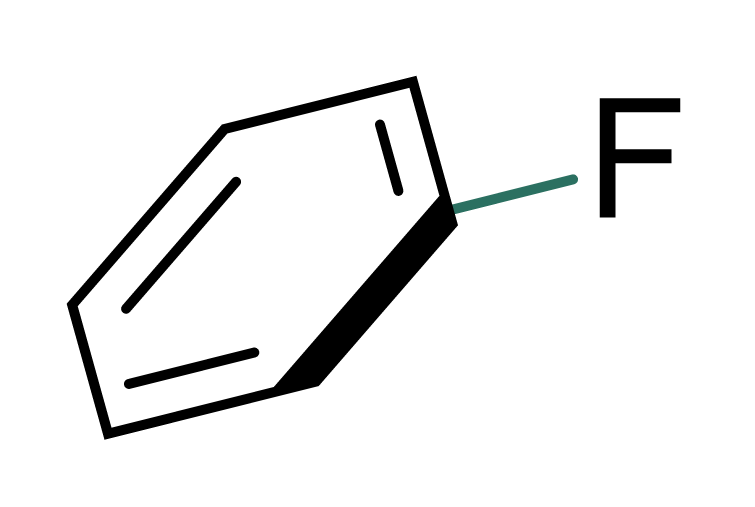
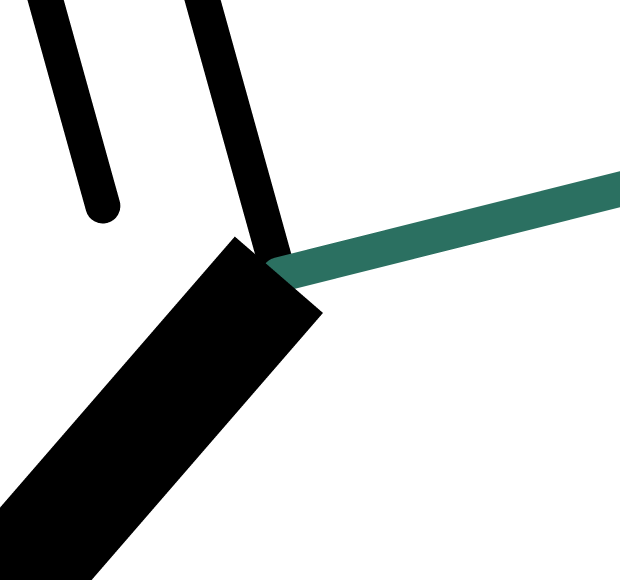
Retain styled metal contacts and close colored ring junction seams

Changed region(s): [[0.0, 0.0, 1.0, 1.0]]

diff --git a/tests/assistant_ligand_review.rs b/tests/assistant_ligand_review.rs
@@ -199,8 +199,9 @@ fn review_tilts_only_one_ligand_and_preserves_3d_lengths_contacts_and_chemistry(
     Ok(())
 }
 
-#[test]
-fn hiding_charge_labels_keeps_formula_and_native_data_and_can_be_reversed() -> anyhow::Result<()> {
+#[tokio::test]
+async fn hiding_charge_labels_keeps_formula_and_native_data_and_can_be_reversed()
+-> anyhow::Result<()> {
     let before = draft()?;
     let targets: Vec<_> = review::targets(&before)
         .into_iter()
@@ -228,10 +229,48 @@ fn hiding_charge_labels_keeps_formula_and_native_data_and_can_be_reversed() -> a
             .map_err(anyhow::Error::msg)?
             .is_empty()
     );
-    let error = reshiki::exchange::drawing::write(&hidden, Default::default())
-        .err()
-        .context("Expected explicit interchange limitation")?;
-    assert!(error.to_string().contains("hidden charge labels"));
+    let xml = reshiki::exchange::drawing::write(&hidden, Default::default())?;
+    let cdx = reshiki::exchange::to_cdx(&xml).map_err(anyhow::Error::msg)?;
+    let xml = reshiki::exchange::from_cdx(&cdx).map_err(anyhow::Error::msg)?;
+    let response = reshiki::engine::LocalEngine::default()
+        .request(reshiki::engine::Request::import("cdxml", &xml))
+        .await
+        .map_err(anyhow::Error::msg)?;
+    assert!(response.analysis.is_none());
+    assert!(
+        response
+            .warnings
+            .iter()
+            .any(|w| w.contains("Coordination assignments need review"))
+    );
+    let imported = response.document.context("Imported ligand drawing")?;
+    assert_eq!(
+        imported
+            .bonds
+            .iter()
+            .filter(|b| b.order == 1 && b.display == "hash")
+            .count(),
+        2
+    );
+    assert_eq!(
+        imported
+            .bonds
+            .iter()
+            .filter(|b| b.order == 1 && b.display == "wedge")
+            .count(),
+        2
+    );
+    assert_eq!(imported.atoms.iter().map(|a| a.charge).sum::<i32>(), -2);
+    assert_eq!(
+        imported
+            .atoms
+            .iter()
+            .filter(|a| a.charge == -1 && a.display.hide_charge)
+            .count(),
+        2
+    );
+    assert_eq!(imported.bonds.iter().filter(|b| b.order == 4).count(), 10);
+    assert!(!reshiki::scene::svg(&imported).contains('−'));
     let edits: Vec<_> = targets
         .iter()
         .map(|t| edit(&t.name, [0.; 3], true))

diff --git a/src/engine/native_import.rs b/src/engine/native_import.rs
@@ -220,6 +220,13 @@ fn prepare(request: Request) -> Result<Preparation, Error> {
                 }
                 Err(error) => return Err(error.into()),
             };
+            if styled_coordination_changed(&prepared) {
+                let scene = cdxml::assemble_cdxml(&cdxml::prepare_drawing(&xml)?)?;
+                return Ok(Preparation::Drawing(
+                    Box::new(scene.into_unchecked_drawing()?),
+                    "Drawing imported; styled metal contacts retained as drawn. Coordination assignments need review; molecular properties are unavailable".into(),
+                ));
+            }
             let mut scene = cdxml::assemble_cdxml(&prepared)?;
             if scene.conformer_3d.is_none() {
                 layout(&mut scene.molecule, &[])?;
@@ -247,6 +254,30 @@ fn prepare(request: Request) -> Result<Preparation, Error> {
     };
     prepared.document.validate().map_err(Error::Document)?;
     Ok(Preparation::Complete(Box::new(prepared)))
+}
+
+// Sanitization can normalize an overvalent metal contact to a dative bond.
+// A wedge/hash on the source single bond has no equivalent dative appearance.
+// Preserve that drawing explicitly instead of either dropping its style or
+// publishing properties for a different graph. Ordinary molecular parsing
+// and supported plain/dashed coordinate bonds retain their strict behavior.
+fn styled_coordination_changed(prepared: &cdxml::PreparedCdxml) -> bool {
+    let ids = &prepared.molecule.ids;
+    let changed: std::collections::HashSet<_> = prepared
+        .molecule
+        .state
+        .graph
+        .bonds
+        .iter()
+        .filter(|b| b.order == 5)
+        .filter_map(|b| ids.get(b.a).zip(ids.get(b.b)))
+        .map(|(&a, &b)| (a.min(b), a.max(b)))
+        .collect();
+    prepared.bonds.iter().any(|b| {
+        b.order == 1
+            && !matches!(b.display.as_str(), "plain" | "dashed")
+            && changed.contains(&(b.a.min(b.b), b.a.max(b.b)))
+    })
 }
 
 fn finish_reaction(drawing: reaction::Drawing) -> Result<Prepared, Error> {

diff --git a/tests/aromatic_bond_styles.rs b/tests/aromatic_bond_styles.rs
@@ -186,7 +186,7 @@ fn cp_star_dimer_wedges_keep_both_ellipses_ligands_and_contacts() -> anyhow::Res
 fn projected_styles_are_not_silently_exported_as_stereochemical_wedges() -> anyhow::Result<()> {
     for preset in APPEARANCES
         .into_iter()
-        .filter(|p| !matches!(p, BondPreset::Single | BondPreset::Bold))
+        .filter(|p| !matches!(p, BondPreset::Single | BondPreset::Bold | BondPreset::Wedge))
     {
         let mut doc = ring(6, 65.);
         preset.apply(doc.bonds.first_mut().context("Missing edge")?);
@@ -202,6 +202,27 @@ fn projected_styles_are_not_silently_exported_as_stereochemical_wedges() -> anyh
         let imported = reshiki::chemistry::cdxml::import_cdxml(&xml)?.document;
         assert_eq!(imported.bonds.iter().filter(|b| b.order == 4).count(), 6);
         assert!(imported.atoms.iter().all(|a| a.stereo.is_none()));
+    }
+    Ok(())
+}
+
+#[test]
+fn aromatic_front_edges_remain_aromatic_without_creating_stereocenters() -> anyhow::Result<()> {
+    for preset in [BondPreset::Bold, BondPreset::Wedge] {
+        let mut doc = ring(6, 65.);
+        preset.apply(doc.bonds.first_mut().context("Missing edge")?);
+        let xml = reshiki::exchange::drawing::write(&doc, Default::default())?;
+        let cdx = reshiki::exchange::to_cdx(&xml).map_err(anyhow::Error::msg)?;
+        let xml = reshiki::exchange::from_cdx(&cdx).map_err(anyhow::Error::msg)?;
+        let imported = reshiki::chemistry::cdxml::import_cdxml(&xml)?.document;
+        assert_eq!(imported.bonds.iter().filter(|b| b.order == 4).count(), 6);
+        assert!(imported.atoms.iter().all(|a| a.stereo.is_none()));
+        assert!(
+            imported
+                .bonds
+                .iter()
+                .any(|b| b.projection && BondPreset::of(b) == Some(preset))
+        );
     }
     Ok(())
 }

diff --git a/tests/ring_arc_rendering.rs b/tests/ring_arc_rendering.rs
@@ -22,6 +22,23 @@ fn curves(doc: &Document) -> usize {
         .count()
 }
 
+fn joined_edges(doc: &Document) -> usize {
+    scene::primitives(doc)
+        .iter()
+        .map(|p| match p {
+            Primitive::Path {
+                commands,
+                filled: true,
+                ..
+            } => commands
+                .iter()
+                .filter(|c| matches!(c, PathCommand::Close))
+                .count(),
+            _ => 0,
+        })
+        .sum()
+}
+
 #[test]
 fn partial_aromatic_curve_does_not_add_dashes_on_remaining_ring_edges() -> anyhow::Result<()> {
     for size in [5, 6, 7, 8] {
@@ -125,7 +142,7 @@ fn partial_curve_preserves_unselected_double_bonds_and_figure_exports() -> anyho
     reshiki::ring_arcs::toggle(&mut doc, &ids[..3]).map_err(anyhow::Error::msg)?;
     assert_eq!(curves(&doc), 1);
     assert_eq!(
-        lines(&doc),
+        lines(&doc) + joined_edges(&doc),
         8,
         "Six outer edges and two unselected double-bond strokes"
     );
@@ -143,6 +160,6 @@ fn partial_curve_preserves_unselected_double_bonds_and_figure_exports() -> anyho
     );
     reshiki::ring_arcs::toggle(&mut doc, &ids[..3]).map_err(anyhow::Error::msg)?;
     assert_eq!(doc.bonds, bonds);
-    assert_eq!(lines(&doc), 9);
+    assert_eq!(lines(&doc) + joined_edges(&doc), 9);
     Ok(())
 }

diff --git a/src/bond_joins.rs b/src/bond_joins.rs
@@ -121,9 +121,21 @@ pub fn polygon(doc: &Document, b: &Bond, start: Point, end: Point) -> Vec<Point>
     let [bl, br] = cap(doc, b, b.b, end, start);
     vec![al, br, bl, ar]
 }
+/// A differently colored substituent is painted underneath the ring. Adjacent
+/// separately antialiased colors otherwise leave a translucent seam, even when
+/// their boundaries agree. The ring covers the branch root with its own ink.
+pub fn behind_backbone(doc: &Document, b: &Bond) -> bool {
+    [b.a, b.b].iter().any(|id| {
+        branches::backbone(doc, *id)
+            .is_some_and(|ring| !ring.contains(b) && ring.has_different_color(b.color))
+    })
+}
 /// Keep a ring's outer miter intact and stop substituents at that outline.
 pub fn outlines(doc: &Document, b: &Bond, start: Point, end: Point) -> Vec<Vec<Point>> {
     let mut parts = vec![polygon(doc, b, start, end)];
+    if behind_backbone(doc, b) {
+        return parts;
+    }
     for (id, point) in [(b.a, start), (b.b, end)] {
         if doc
             .atom(id)

diff --git a/src/scene.rs b/src/scene.rs
@@ -778,7 +778,10 @@ pub fn primitives(doc: &Document) -> Vec<Primitive> {
             let bond_primitives = out.drain(bond_start..).collect();
             out.extend(crate::crossings::cut(bond_primitives, gaps));
         }
-        if crate::bond_joins::needed(doc, b) && b.display != "hollow_wedge" {
+        if crate::bond_joins::needed(doc, b)
+            && b.display != "hollow_wedge"
+            && !crate::bond_joins::behind_backbone(doc, b)
+        {
             use crate::graphics::PathCommand;
             let commands = joined.entry(b.color).or_default();
             let mut secondary = Vec::new();

diff --git a/src/app/clipboard.rs b/src/app/clipboard.rs
@@ -89,8 +89,10 @@ impl App {
             }
         } else if outcome.image_only {
             "Image copied"
+        } else if cfg!(windows) && outcome.external_editable {
+            "Copied editable drawing · use Copy Image for a picture"
         } else if cfg!(windows) {
-            "Editable drawing copied · use Copy Image for a picture"
+            "Copied · editable in ReShiki; use Copy Image for other apps"
         } else if outcome.external_editable {
             "Editable drawing and images copied"
         } else {

diff --git a/src/bond_joins/double_tests.rs b/src/bond_joins/double_tests.rs
@@ -66,7 +66,7 @@ fn colored_branches_join_the_same_ring_outline_without_changing_chemistry() -> a
     let source: Document = serde_json::from_str(include_str!(
         "../../docs/changes/fixtures/arene-bold-join.rsk"
     ))?;
-    for rotation in [0., 47., 130.] {
+    for rotation in (0..360).step_by(17).map(|r| r as f32).chain([47., 130.]) {
         for reversed in [false, true] {
             for color in [[43, 112, 97], [0, 0, 0], [180, 68, 32]] {
                 let mut doc = source.clone();

diff --git a/src/bond_joins/branches.rs b/src/bond_joins/branches.rs
@@ -10,6 +10,9 @@ impl Backbone<'_> {
     pub(super) fn contains(&self, bond: &Bond) -> bool {
         self.edges.iter().any(|edge| std::ptr::eq(*edge, bond))
     }
+    pub(super) fn has_different_color(&self, color: [u8; 3]) -> bool {
+        self.edges.iter().any(|edge| edge.color != color)
+    }
     pub(super) fn boundary(&self, doc: &Document, id: u64) -> Option<[(Point, Point, f32); 2]> {
         let point = doc.atom(id)?.position;
         let [first, second] = self.edges;

diff --git a/docs/changes/shortcut-help.md b/docs/changes/shortcut-help.md
@@ -40,6 +40,16 @@ The seven-atom, six-bond sample was copied from an external editor into ReShiki,
 
 If a drawing uses appearance settings that editable CDX cannot yet preserve, Copy now includes a sized picture for other drawing editors and explains the fallback. ReShiki-to-ReShiki copying retains the editable original. This preserves appearance but does not turn unsupported objects into editable chemical structures in another app.
 
+## Styled metal-contact import
+
+A metal-complex drawing could export successfully, then fail on return with **Unsupported bond appearance for this order**. Chemical normalization converted some single metal–chloride contacts to coordinate bonds while retaining wedge/hash styles that are invalid for that bond order. Native import now retains the source drawing for this case, reports that coordination assignments need review, and withholds molecular properties. It does not invent a different assignment.
+
+| Before: paste rejected                                                           | After: editable drawing retained                                                                                      |
+| -------------------------------------------------------------------------------- | --------------------------------------------------------------------------------------------------------------------- |
+| ![The metal-complex paste is rejected](../images/shortcut-help/dimer-before.png) | ![The same source pastes with its bond styles and a chemistry-review notice](../images/shortcut-help/dimer-after.png) |
+
+Both captures use the same CDXML source through the native clipboard in the optimized macOS app. The after view is fitted to show the imported drawing. A CDX round-trip regression checks both wedge contacts, both hashed contacts, ten aromatic bonds and two hidden ligand charges.
+
 ## Perspective ligand shortcuts
 
 At an atom, **j** adds Cp and **J** adds an arene ligand with an initial 60° tilt, tapered front edges and a contact behind the ring. The regular ring is built in 3D before projection: its true bond lengths, aromatic order, charges and multi-center targets survive later tilts. The ellipse follows the same ring plane. Wedges here are drawing perspective, not assigned stereochemistry. At a metal, repeating the shortcut adds another ligand and keeps that metal selected. The Cp minus sign is hidden by default, while its −1 charge remains in the chemical data. Metal charges are left as entered; neutral overall charge is not assumed.
@@ -130,11 +140,15 @@ Automatic double-bond placement puts a ring's outer line on its skeleton. The jo
 
 Both figures use the same [saved arene drawing](fixtures/arene-bold-join.rsk). Only rendering changes; the coordinates, double bonds and green C–F bond are unchanged. Tests cover shared corners, rotated/reversed bonds, several tilt angles, transparent raster coverage and preservation of the separate inner double-bond lines.
 
-The green C–F branch exposed a separate issue: joining excluded adjacent bonds with different colors. Widths and directions now determine the junction regardless of color. At an unambiguous thick/thin ring corner, the ring keeps its own outline and the outgoing substituent meets its exterior. The branch no longer changes the corner into a pointed shoulder or paints a colored triangle inside the ring. Tests compare the ring silhouette with and without its substituent across rotations and tilts.
+Differently colored branches are painted underneath the ring outline, preventing translucent antialiasing seams at their shared corner. Regression checks sample 24 rotations in both bond directions without relaxing the opacity threshold.
 
-| Before: colored branch excluded from the join                                                          | After: all three bonds share the junction                                                                         |
-| ------------------------------------------------------------------------------------------------------ | ----------------------------------------------------------------------------------------------------------------- |
-| ![Green C–F bond meets a protruding black ring corner](../images/shortcut-help/arene-color-before.png) | ![Green C–F bond joins the black ring without a protruding corner](../images/shortcut-help/arene-color-after.png) |
+The colored C–F junction is part of the same corner correction. In the earlier renderer, the thick edge ended with a square shoulder beside the thin ring bond. The current outline follows the ring corner, and the colored branch meets its outside without an internal colored triangle. The close-ups below use the same saved drawing and the same view box; only the renderer changes. The earlier full-size comparison did not demonstrate this corner change and has been replaced.
+
+| Before: square shoulder at the ring junction                                                         | After: continuous ring outline                                                                               |
+| ---------------------------------------------------------------------------------------------------- | ------------------------------------------------------------------------------------------------------------ |
+| ![Enlarged junction before the ring join correction](../images/shortcut-help/arene-color-before.png) | ![The same enlarged junction with the corrected ring outline](../images/shortcut-help/arene-color-after.png) |
+
+The before image is rendered from commit `506471c`; the after image uses the corrected renderer. Both show the carbon at the C–F junction at identical scale. These are crops of vector exports, with no retouching. The complete structure is shown in the preceding comparison. Tests also compare the ring silhouette with and without its substituent across rotations and tilts.
 
 ## Copying the bold arene
 

diff --git a/docs/clipboard.md b/docs/clipboard.md
@@ -26,6 +26,8 @@ The shortcut gallery is supplied as editable CDX on the clipboard even when its 
 
 When a receiving editor returns R/X as query nicknames, ReShiki imports them as uninterpreted atom text with a notice. Molecular properties and query semantics are unavailable for that drawing; other unsupported query types remain rejected. NO2/N3 group definitions retain their formal charges through the tested return copy. [Before/after captures and return-paste verification](changes/shortcut-help.md#editable-cp-and-arene-round-trips).
 
+Styled metal contacts are also retained when chemical normalization would otherwise turn their single bonds into coordinate bonds with incompatible wedge styles. That import keeps the supplied drawing, reports that coordination assignments need review, and withholds molecular properties.
+
 ### Changes made for an external copy
 
 | Feature                                                                 | Editable CDX clipboard behavior                                                                           |
